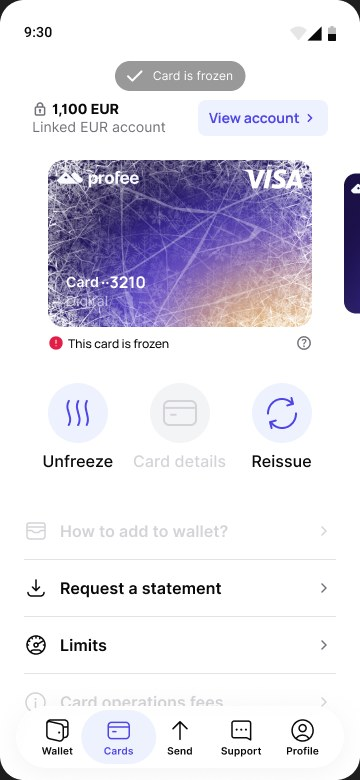
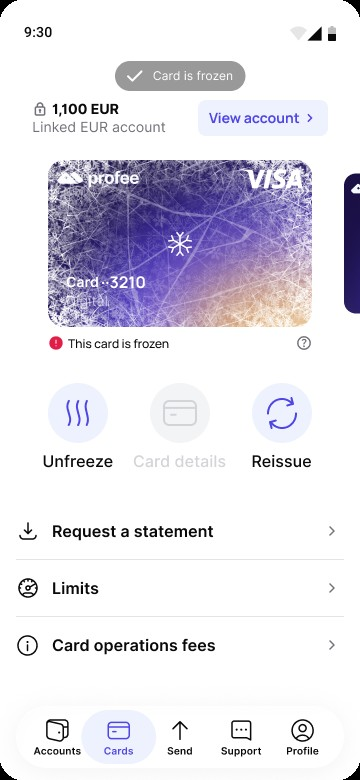
Cards: Accounts nav on screens, wallet growth moved to honest read, fee copy matches prototype

diff --git a/case-profee-cards.html b/case-profee-cards.html
@@ -353,8 +353,8 @@ body {
         <div class="scope-icon">04</div>
         <div class="scope-title t-en">Top up</div>
         <div class="scope-title t-ru">Пополнение</div>
-        <div class="scope-desc t-en">Three payment methods: Profee account, external card, bank transfer – and a low-balance state</div>
-        <div class="scope-desc t-ru">Три способа оплаты: счёт Profee, внешняя карта, банковский перевод – и состояние «мало денег»</div>
+        <div class="scope-desc t-en">Every way to pay: Profee wallet, card, Google Pay, Apple Pay, bank transfer – and a low-balance state</div>
+        <div class="scope-desc t-ru">Все способы оплаты: кошелёк Profee, карта, Google Pay, Apple Pay, банковский перевод – и состояние «мало денег»</div>
       </div>
       <div class="scope-item">
         <div class="scope-icon">05</div>
@@ -505,8 +505,8 @@ window.protoScripts = {
     <p class="t-en"><strong>The dark gradient account view.</strong> The card's account and top-up screens needed to feel distinct from the rest of Profee – it's a different relationship with money (storing and spending, not just sending). The deep purple gradient communicates "your money, at rest" versus the clean white of the transfer flows</p>
     <p class="t-ru"><strong>Тёмный градиент счёта.</strong> Счёт карты и пополнение должны отличаться от остального Profee – здесь деньги хранят и тратят, а не только отправляют. Глубокий фиолетовый говорит «ваши деньги на месте», в отличие от белых экранов переводов</p>
 
-    <p class="t-en"><strong>Fee transparency in top-up.</strong> Three payment methods, three fee structures: 0 EUR via Profee account, 2 EUR via external card, zero-fee via bank transfer but with a delay. The fee is visible at the method selection step – before the user commits – so the confirmation screen holds no surprises. The flow went through three iterations in two weeks; each one made the fee clearer</p>
-    <p class="t-ru"><strong>Комиссия видна сразу.</strong> Три способа пополнения – три разные комиссии: 0 EUR со счёта Profee, 2 EUR с внешней карты, без комиссии банковским переводом, но не мгновенно. Комиссию видно уже при выборе способа, до подтверждения, поэтому на последнем экране сюрпризов нет. За две недели было три итерации, и с каждой комиссия становилась понятнее</p>
+    <p class="t-en"><strong>Fee transparency in top-up.</strong> Every way to pay has its own fee and speed – from the Profee wallet and a card to Google Pay, Apple Pay and a bank transfer. Both are shown as tags right in the list of methods, before the user chooses, so the confirmation screen holds no surprises. The flow went through three iterations in two weeks; each one made the fee clearer</p>
+    <p class="t-ru"><strong>Комиссия видна сразу.</strong> У каждого способа оплаты своя комиссия и скорость – от кошелька Profee и карты до Google Pay, Apple Pay и банковского перевода. И то и другое видно метками прямо в списке способов, до выбора, поэтому на последнем экране сюрпризов нет. За две недели было три итерации, и с каждой комиссия становилась понятнее</p>
 
     <p class="t-en"><strong>Freezing without fear.</strong> A freeze is only useful if it feels reversible – if people aren't sure they'll get access back, they won't tap it. So the freeze is designed as a story with no dead ends: a toast and a frosted card while it is frozen, an explanation one tap away behind the ?, and a failure state with a way out</p>
     <p class="t-ru"><strong>Заморозка без страха.</strong> Заморозка полезна, только если понятно, что её можно отменить: если человек не уверен, что вернёт доступ к деньгам, он не нажмёт. Поэтому в заморозке нет тупиков: уведомление и заиндевевшая карта, объяснение в одно касание за значком «?» и экран ошибки, из которого всегда есть выход</p>
@@ -586,21 +586,15 @@ window.protoScripts = {
     <p class="t-ru">Новая вкладка «Карты» вышла 6 марта 2026 года на iOS и Android. Если сравнить апрель, первый полный месяц, с августом, данные Amplitude говорят сразу о двух вещах</p>
     <p class="t-en"><strong>The product area is alive.</strong> Card issuance settled into a steady monthly rate after the launch spike, and the share of active senders who open the Cards tab in a month doubled</p>
     <p class="t-ru"><strong>Раздел живёт.</strong> После всплеска на запуске карты выпускают в ровном темпе, а доля активных отправителей, которые заходят во вкладку за месяц, выросла вдвое</p>
-    <p class="t-en"><strong>The card is not yet the reason to keep money.</strong> The share of senders who top up the wallet grew seven times – through Google Pay, Apple Pay and BLIK, not through the card. Fewer than 5% of them hold a card</p>
-    <p class="t-ru"><strong>Держать деньги из-за карты пока не стали.</strong> Доля отправителей, которые пополняют кошелёк, выросла в семь раз – через Google Pay, Apple Pay и BLIK, а не через карту. Карта есть меньше чем у 5% из них</p>
+    <p class="t-en"><strong>The card is not yet the reason to keep money.</strong> The share of senders who top up the wallet grew seven times, from 1.5% to 10.5% – through Google Pay, Apple Pay and BLIK, top-up methods that weren't part of this project. Fewer than 5% of them hold a card</p>
+    <p class="t-ru"><strong>Держать деньги из-за карты пока не стали.</strong> Доля отправителей, которые пополняют кошелёк, выросла в семь раз, с 1,5% до 10,5% – через Google Pay, Apple Pay и BLIK, а эти способы пополнения в мой проект не входили. Карта есть меньше чем у 5% из них</p>
 
-    <div class="metrics">
+    <div class="metrics metrics--2">
       <div class="metric-tile">
         <div class="metric-num">×2</div>
         <div class="metric-delta"><b>3.9%</b><i>→</i><b>8%</b></div>
         <div class="metric-label t-en">Active senders who open<br>the Cards tab in a month,<br>April → August</div>
         <div class="metric-label t-ru">Доля активных отправителей,<br>которые заходят во вкладку<br>за месяц, апрель → август</div>
-      </div>
-      <div class="metric-tile">
-        <div class="metric-num">×7</div>
-        <div class="metric-delta"><b>1.5%</b><i>→</i><b>10.5%</b></div>
-        <div class="metric-label t-en">Active senders who topped up<br>the wallet in a month, April →<br>August – without the card</div>
-        <div class="metric-label t-ru">Доля активных отправителей,<br>которые пополнили кошелёк<br>за месяц, апрель → август –<br>без участия карты</div>
       </div>
       <div class="metric-tile">
         <div class="metric-num">&lt;5%</div>

diff --git a/case.css b/case.css
@@ -121,6 +121,7 @@
   padding-top: var(--space-6);
   border-top: 1px solid var(--border);
 }
+.metrics--2 { grid-template-columns: repeat(2, 1fr); }
 .metric-tile {
   min-width: 0;
   padding: var(--space-2) var(--space-6) var(--space-2) var(--space-6);
